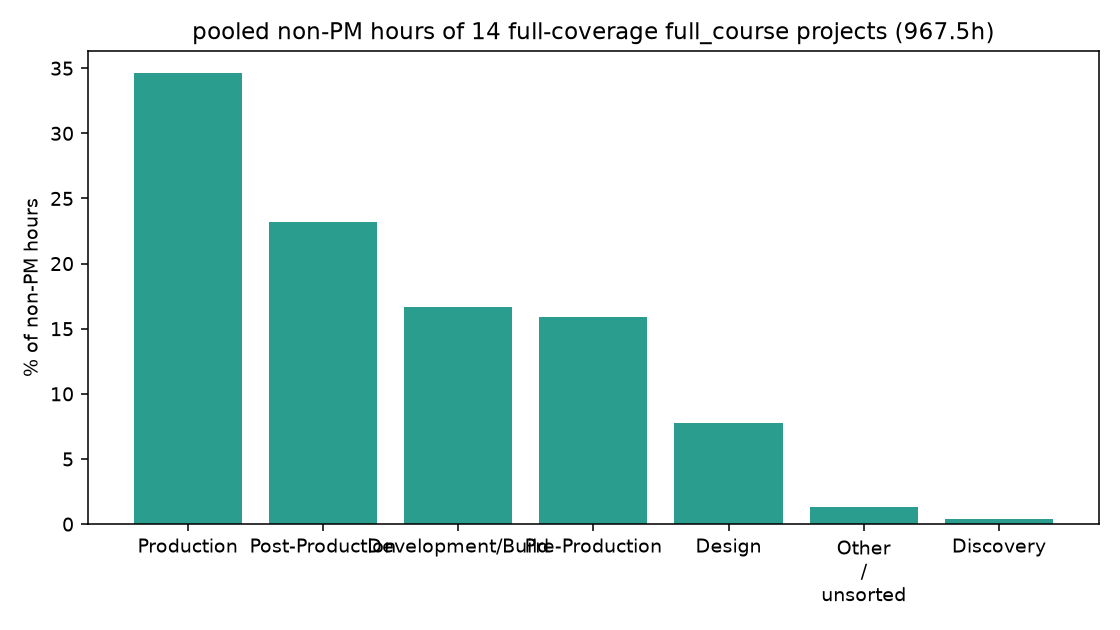
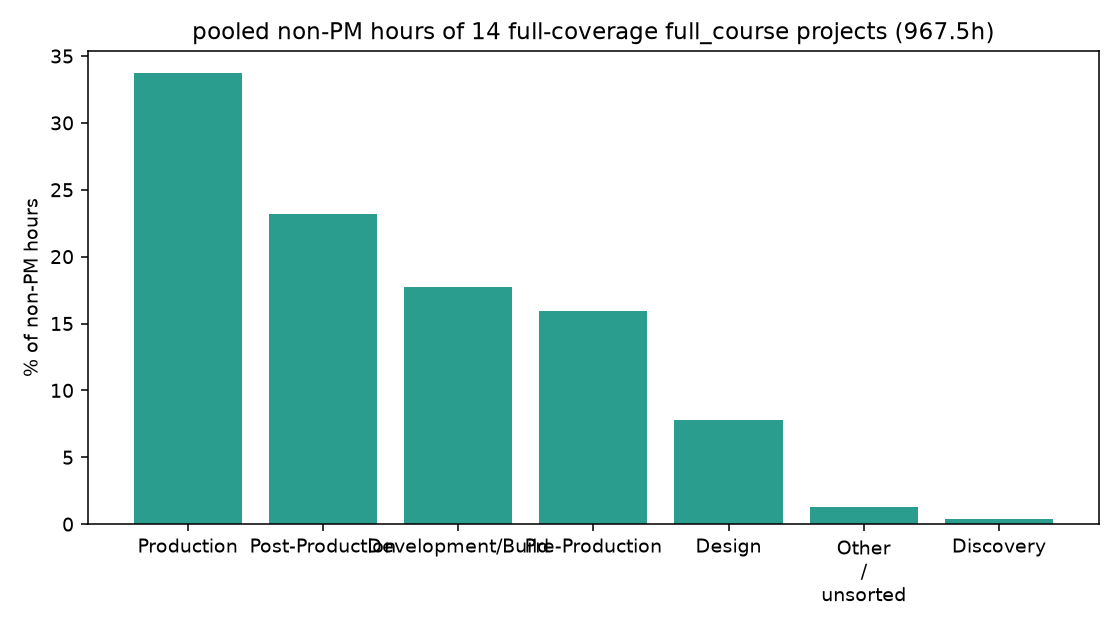
nightly refresh 2026-08-04

diff --git a/faculty_guide/canvas_upload/ODL_Faculty_Onboarding_Guide.html b/faculty_guide/canvas_upload/ODL_Faculty_Onboarding_Guide.html
@@ -414,9 +414,9 @@
     },
     "mediaSplitBasis": "pooled hours on per-video sections with full-coverage logging: 1 project(s) (Program for Inclusive Education (PIE) Video #2), 15.5h total",
     "coursePhaseMixPct": {
-      "Production": 34.6,
+      "Production": 33.7,
       "Post-Production": 23.2,
-      "Development/Build": 16.7,
+      "Development/Build": 17.7,
       "Pre-Production": 15.9,
       "Design": 7.8,
       "Other / unsorted": 1.3,
@@ -447,7 +447,7 @@
         "p50": 33.2,
         "p75": 45.9,
         "p80": 49.9,
-        "max": 92.4
+        "max": 92.9
       },
       "podcast": {
         "n": 2,

diff --git a/faculty_guide/estimator.js b/faculty_guide/estimator.js
@@ -117,9 +117,9 @@
     },
     "mediaSplitBasis": "pooled hours on per-video sections with full-coverage logging: 1 project(s) (Program for Inclusive Education (PIE) Video #2), 15.5h total",
     "coursePhaseMixPct": {
-      "Production": 34.6,
+      "Production": 33.7,
       "Post-Production": 23.2,
-      "Development/Build": 16.7,
+      "Development/Build": 17.7,
       "Pre-Production": 15.9,
       "Design": 7.8,
       "Other / unsorted": 1.3,
@@ -150,7 +150,7 @@
         "p50": 33.2,
         "p75": 45.9,
         "p80": 49.9,
-        "max": 92.4
+        "max": 92.9
       },
       "podcast": {
         "n": 2,
